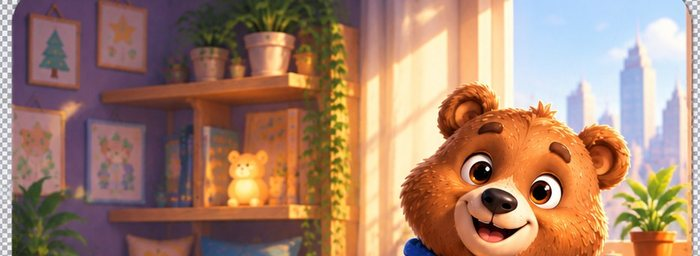
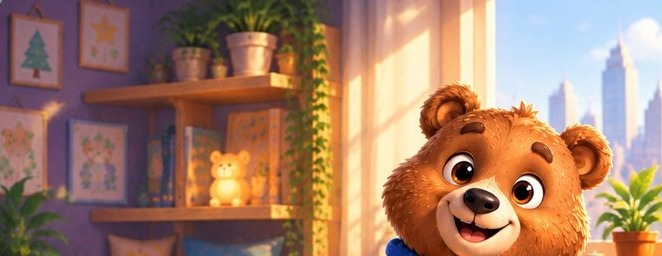
v.5.4.4

diff --git a/src/pages/Home.tsx b/src/pages/Home.tsx
@@ -75,6 +75,10 @@ const LESSON_REMINDER_THRESHOLD_MS = 3 * 60 * 60 * 1000;
 // анимации — небольшой запас на всякий случай.
 const SCREEN_LOADING_MS = 1500;
 
+// Плавное появление/исчезновение самого экрана загрузки (отдельно от
+// длительности его показа выше) — чтобы не выглядело резким "миганием".
+const SCREEN_LOADING_FADE_MS = 200;
+
 // Свайп вверх с главного экрана открывает раздел уроков — тот же простой
 // порог, что и на кухне (см. Kitchen.tsx), но срабатывает только когда
 // поверх главного экрана ничего не открыто (иначе жест мешал бы шторкам,
@@ -138,30 +142,55 @@ export default function Home() {
   // null — не показан; 'kitchen'/'home' — какой переход сейчас скрыт под ним.
   const [screenLoading, setScreenLoading] = useState<'kitchen' | 'home' | null>(null);
   const screenLoadingTimer = useRef<ReturnType<typeof setTimeout> | null>(null);
+  // Отдельно от screenLoading (который определяет, ЧТО сейчас скрыто под
+  // загрузкой и когда переход считается завершённым) — состояние самого
+  // оверлея: мигание убрано, экран загрузки плавно появляется и исчезает,
+  // а не пропадает вместе со сменой экрана резким скачком.
+  const [loadingMounted, setLoadingMounted] = useState(false);
+  const [loadingShown, setLoadingShown] = useState(false);
+  const loadingUnmountTimer = useRef<ReturnType<typeof setTimeout> | null>(null);
+
+  useEffect(() => {
+    if (screenLoading !== null) {
+      if (loadingUnmountTimer.current) {
+        clearTimeout(loadingUnmountTimer.current);
+        loadingUnmountTimer.current = null;
+      }
+      setLoadingMounted(true);
+      const id = requestAnimationFrame(() => setLoadingShown(true));
+      return () => cancelAnimationFrame(id);
+    }
+    // screenLoading стал null — сначала плавно гасим (transition-opacity в
+    // разметке ниже), и только после завершения затухания убираем оверлей
+    // из DOM целиком.
+    setLoadingShown(false);
+    loadingUnmountTimer.current = setTimeout(() => setLoadingMounted(false), SCREEN_LOADING_FADE_MS);
+    return () => {
+      if (loadingUnmountTimer.current) clearTimeout(loadingUnmountTimer.current);
+    };
+  }, [screenLoading]);
   // Магазин, открытый корзинкой с экрана кухни, показывает только «Еду» и
   // «Интерьер» (и только кухонный подраздел интерьера) — из нижнего меню он
   // как обычно открывается полным (см. onChange у BottomNav ниже).
   const [shopKitchenOnly, setShopKitchenOnly] = useState(false);
-  // Если магазин/прогресс открыты С КУХНИ (кнопка-корзинка / аватар в шапке
-  // кухни), закрытие этого раздела должно вернуть на кухню, а не на главную —
-  // иначе пользователя "выкидывало" из процесса кормления на домашний экран.
-  const [returnToKitchen, setReturnToKitchen] = useState(false);
+  // Активная "комната" — главная или кухня. Меняется ТОЛЬКО явными иконками
+  // (кухня на главной, домик на кухне) или свайпом вниз с кухни — и никогда
+  // при открытии/закрытии обычных разделов (уроки/магазин/день/рейтинг/
+  // прогресс), даже если их открыли из нижнего меню, находясь на кухне.
+  // Благодаря этому закрытие такого раздела всегда возвращает туда, откуда
+  // его открыли (см. baseSheet ниже), а не всегда на главную.
+  const [room, setRoom] = useState<'home' | 'kitchen'>('home');
+  const baseSheet: SheetId | null = room === 'kitchen' ? 'kitchen' : null;
 
   function closeSheet() {
-    if (returnToKitchen) {
-      setReturnToKitchen(false);
-      setShopKitchenOnly(false);
-      setSheet('kitchen');
-      setTab('home');
-      return;
-    }
     // Кухню закрываем свайпом вниз/тапом по фону так же, как и кнопкой-домиком
     // внутри неё самой — с экраном загрузки (см. closeKitchen).
     if (sheet === 'kitchen') {
       closeKitchen();
       return;
     }
-    setSheet(null);
+    // Закрытие обычного раздела не меняет активную комнату.
+    setSheet(baseSheet);
     setTab('home');
   }
 
@@ -170,6 +199,7 @@ export default function Home() {
   // SCREEN_LOADING_MS выше).
   function openKitchen() {
     setScreenLoading('kitchen');
+    setRoom('kitchen');
     setSheet('kitchen');
     if (screenLoadingTimer.current) clearTimeout(screenLoadingTimer.current);
     screenLoadingTimer.current = setTimeout(() => {
@@ -181,6 +211,7 @@ export default function Home() {
   // шторка кухни начинает закрываться сразу, а не после экрана загрузки.
   function closeKitchen() {
     setScreenLoading('home');
+    setRoom('home');
     setSheet(null);
     setTab('home');
     if (screenLoadingTimer.current) clearTimeout(screenLoadingTimer.current);
@@ -274,10 +305,7 @@ export default function Home() {
               ребёнку, что сюда можно нажать (сам блок иначе выглядел бы как
               обычная неинтерактивная шапка). */}
           <button
-            onClick={() => {
-              setReturnToKitchen(false);
-              setSheet('progress');
-            }}
+            onClick={() => setSheet('progress')}
             className="flex items-center rounded-2xl py-0.5 pr-1 transition active:scale-[0.97]"
             aria-label="Открыть прогресс уровня"
           >
@@ -628,12 +656,12 @@ export default function Home() {
               // Звук тапа на нижней навигации теперь общий (globalTapSound),
               // здесь остаётся только вибро-отклик — специфика самой вкладки.
               hapticTap();
-              // Переход по нижнему меню — это всегда навигация в новый раздел,
-              // а не возврат на кухню (даже если магазин/прогресс сейчас
-              // открыты именно с кухни, см. returnToKitchen выше).
-              setReturnToKitchen(false);
               setTab(next);
-              setSheet(next === 'home' ? null : next);
+              // Вкладка "Главная" в нижнем меню — это НЕ переход в комнату
+              // "главная" (комнаты переключаются только явными иконками
+              // кухни/домика, см. room выше), а просто "закрыть текущий
+              // раздел" — возвращаемся в ту комнату, что была активна.
+              setSheet(next === 'home' ? baseSheet : next);
               // Магазин из нижнего меню — всегда полный, без кухонного ограничения
               // (в отличие от корзинки на экране кухни, см. openKitchenShop).
               if (next === 'shop') setShopKitchenOnly(false);
@@ -698,13 +726,9 @@ export default function Home() {
             wealth={wealth}
             activeKitchenRoomId={activeKitchenRoomId}
             onOpenEarnModal={() => setEarnModalOpen(true)}
-            onOpenProgress={() => {
-              setReturnToKitchen(true);
-              setSheet('progress');
-            }}
+            onOpenProgress={() => setSheet('progress')}
             onOpenShop={() => {
               setShopKitchenOnly(true);
-              setReturnToKitchen(true);
               setTab('shop');
               setSheet('shop');
             }}
@@ -715,18 +739,12 @@ export default function Home() {
             bottomInset={navHeight}
             coins={coins}
             ownedProductIds={ownedProductIds}
-            onClose={() => {
-              setSheet(null);
-              setTab('home');
-            }}
+            onClose={closeSheet}
           />
         ) : sheet === 'settings' ? (
           <Settings
             bottomInset={navHeight}
-            onClose={() => {
-              setSheet(null);
-              setTab('home');
-            }}
+            onClose={closeSheet}
             onFullScreenChange={setNavHidden}
           />
         ) : (
@@ -742,13 +760,11 @@ export default function Home() {
         onClose={() => setEarnModalOpen(false)}
         onOpenLessons={() => {
           setEarnModalOpen(false);
-          setReturnToKitchen(false);
           setTab('lessons');
           setSheet('lessons');
         }}
         onOpenTasks={() => {
           setEarnModalOpen(false);
-          setReturnToKitchen(false);
           setTab('day');
           setSheet('day');
         }}
@@ -782,8 +798,11 @@ export default function Home() {
           переход между экранами в App.tsx. Целевая шторка уже открывается/
           закрывается ПОД ним (см. openKitchen/closeKitchen) — когда экран
           загрузки исчезает, переход уже полностью завершён. */}
-      {screenLoading !== null && (
-        <div className="absolute inset-0 z-[70]">
+      {loadingMounted && (
+        <div
+          className="absolute inset-0 z-[70] transition-opacity"
+          style={{ opacity: loadingShown ? 1 : 0, transitionDuration: `${SCREEN_LOADING_FADE_MS}ms` }}
+        >
           <PageLoading durationMs={SCREEN_LOADING_MS} />
         </div>
       )}

diff --git a/src/pages/Kitchen.tsx b/src/pages/Kitchen.tsx
@@ -8,7 +8,6 @@ import smileMetricIcon from '../assets/icons/metrics/smile-3d.png';
 import coinsMetricIcon from '../assets/icons/metrics/coins-3d.png';
 import GlassMetric from '../components/GlassMetric';
 import {
-  IconArrowLeft,
   IconPlus,
   IconChevronRight,
   IconHomeOutline,
@@ -160,19 +159,13 @@ export default function Kitchen({
     >
       <img src={background} alt="" className="absolute inset-0 h-full w-full object-cover object-bottom" />
 
-      {/* Шапка — тот же вид, что и на главной: аватар/уровень, монеты; плюс кнопка назад. */}
+      {/* Шапка — тот же вид, что и на главной: аватар/уровень, монеты. Отдельной
+          кнопки "назад" нет — на главную ведут домик в кнопках ниже, свайп
+          вниз или свайп-жест кухни (см. onClose/handleRootPointerUp). */}
       <div
         className="relative z-20 flex items-start gap-2 px-4"
         style={{ paddingTop: 'calc(env(safe-area-inset-top, 0px) + 20px)' }}
       >
-        <button
-          onClick={onClose}
-          className="flex h-9 w-9 shrink-0 items-center justify-center rounded-full bg-black/35 text-white backdrop-blur-md transition active:scale-95"
-          aria-label="Назад"
-        >
-          <IconArrowLeft className="h-5 w-5" />
-        </button>
-
         <button
           onClick={onOpenProgress}
           className="flex min-w-0 flex-1 items-center rounded-2xl py-0.5 pr-1 transition active:scale-[0.97]"
@@ -335,7 +328,7 @@ export default function Kitchen({
             Еды пока нет — загляни в магазин и купи что-нибудь для {petName}.
           </p>
         ) : (
-          <div className="mt-2.5 flex touch-pan-x gap-2 overflow-x-auto pb-1">
+          <div className="mt-2.5 flex touch-pan-x gap-2 overflow-x-auto pb-1 [-ms-overflow-style:none] [scrollbar-width:none] [&::-webkit-scrollbar]:hidden">
             {foodItems.map(({ product, qty }) => (
               <div
                 key={product.id}
